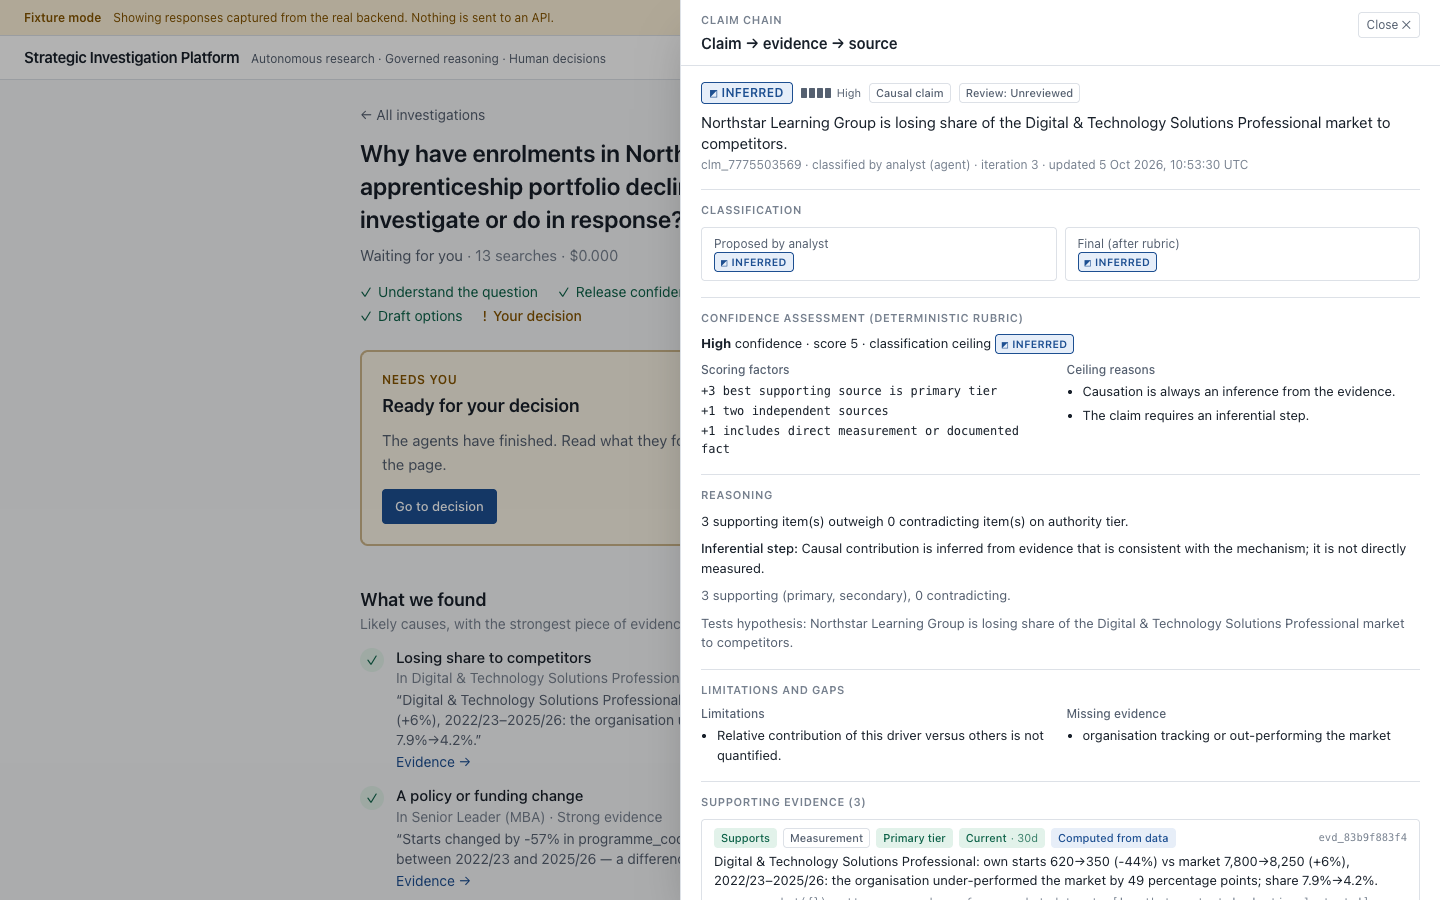
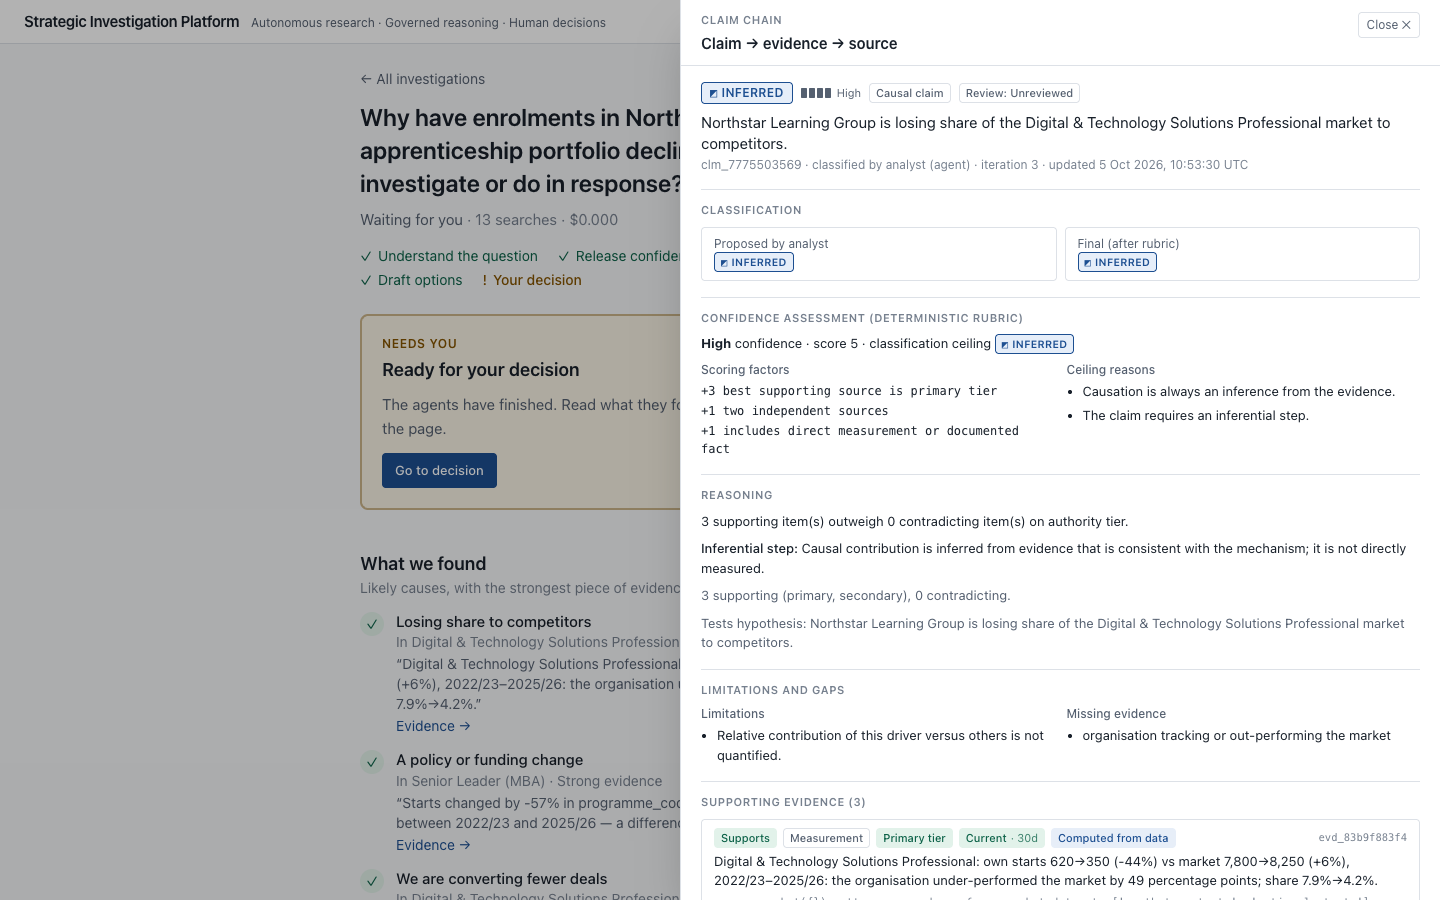
docs: describe the briefing UI and single operator; refresh screenshots
Screenshots no longer show the fixture-mode banner. README, frontend README,
architecture, governance and responsible-AI docs updated to match the
briefing-first, single-operator interface and light theme.

Changed region(s): [[0.25, 0.1244, 0.4688, 1.0], [0.0, 0.0, 0.5, 0.0933]]

diff --git a/docs/governance.md b/docs/governance.md
@@ -48,7 +48,8 @@ the checkpoint.
 | Options | `options_gate` | approve / modify / reject **per option**, edit title/description/risks, request further investigation |
 | Decision | `decision_room` | decide (human-only Decision), request further investigation |
 
-Every review also accepts: a **note**, **human challenges** (to a claim or an assumption; they become
+Every review also accepts (through the API and the full working view; the briefing keeps only the essential
+choices): a **note**, **human challenges** (to a claim or an assumption; they become
 `HUMAN_CHALLENGE` challenges with research questions), **research requests** (become `HUMAN`-origin
 tasks), **classification overrides** (require governance_reviewer; recorded as `HumanOverride` with
 actor, previous value and reason; never silently recomputed away), and **additional iterations** (≤3).
